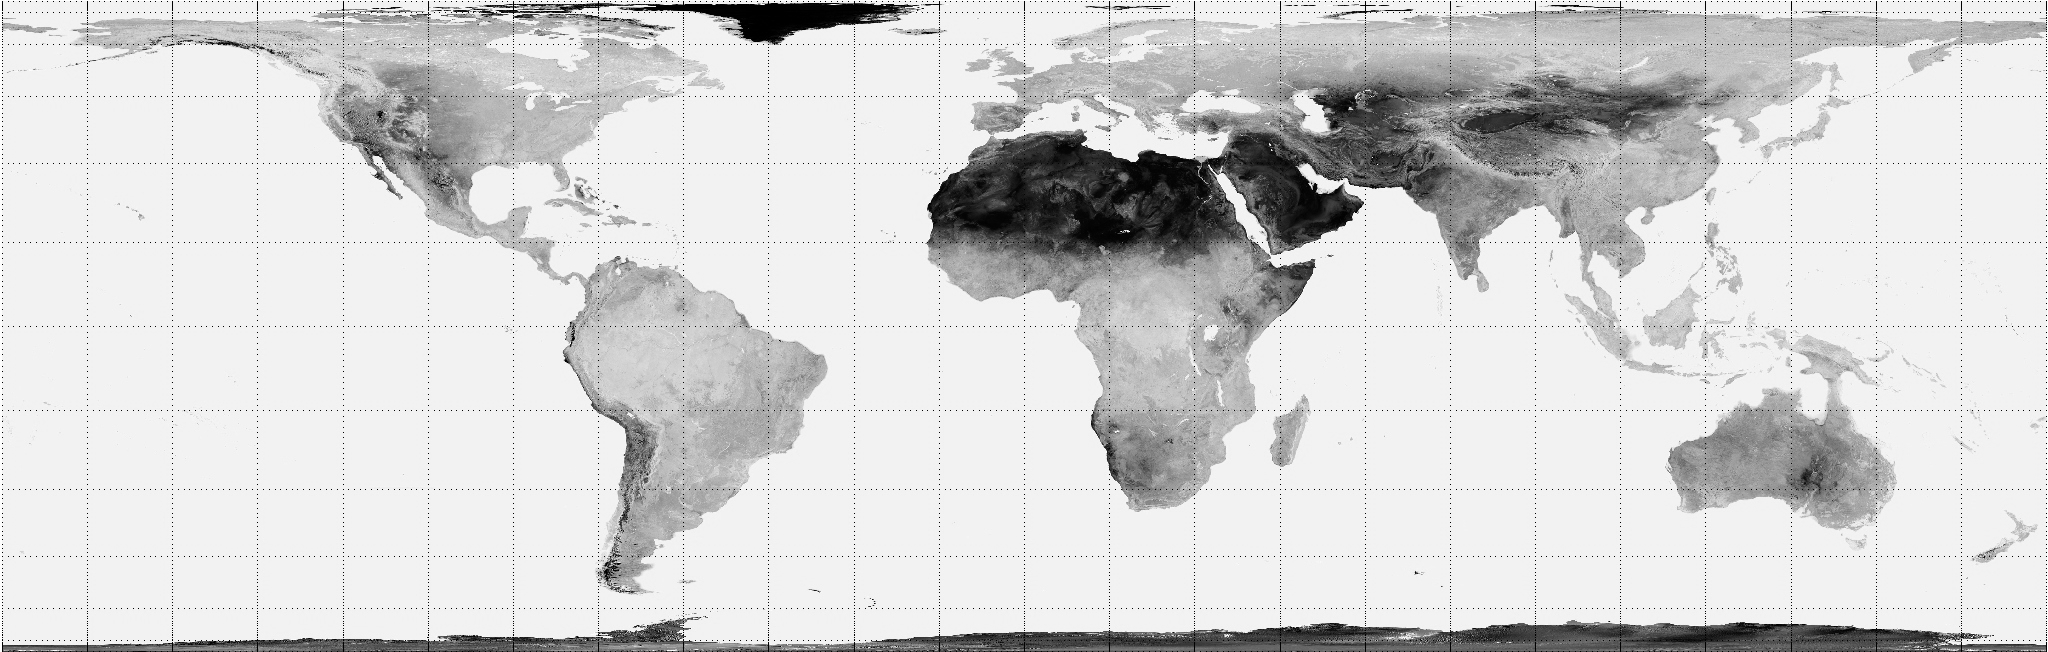
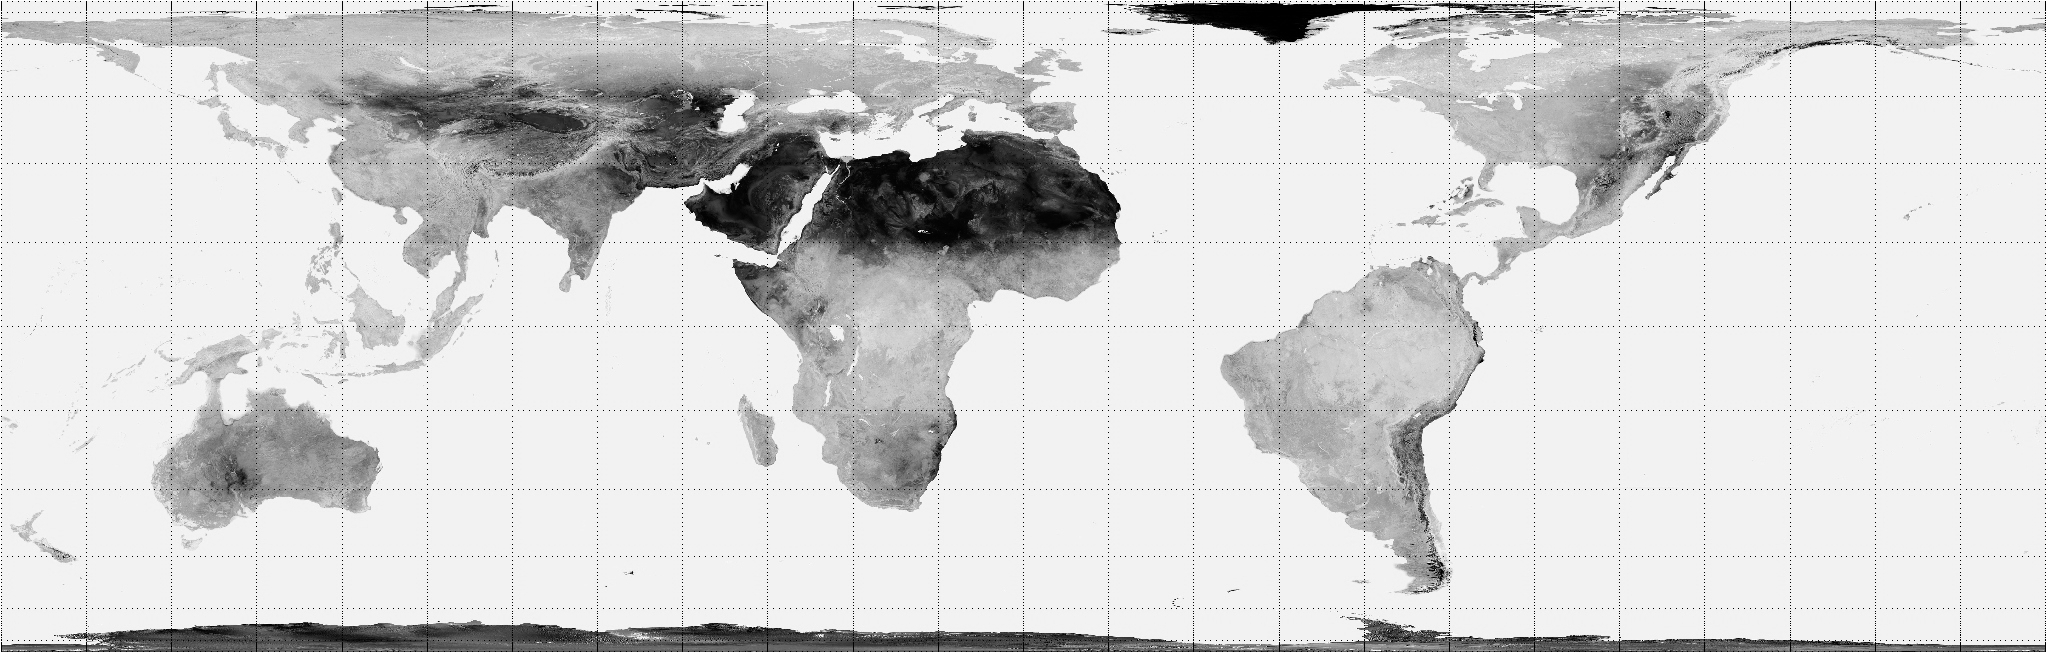
pause/start/stop fixes. flipped earth image.

diff --git a/src/concurrent/ProcessManager.java b/src/concurrent/ProcessManager.java
@@ -9,6 +9,7 @@ import java.util.concurrent.TimeUnit;
 import messaging.Message;
 import messaging.Publisher;
 import messaging.events.ResumeMessage;
+import messaging.events.StopMessage;
 import common.IEngine;
 
 public class ProcessManager extends ThreadPoolExecutor implements IEngine {
@@ -20,6 +21,7 @@ public class ProcessManager extends ThreadPoolExecutor implements IEngine {
 	private final Queue<IEngine> queued;
 	
 	private static ProcessManager instance = null;
+	private boolean started;
 	
 	public static ProcessManager getManager() {
 		if (instance == null) instance = new ProcessManager();
@@ -32,11 +34,12 @@ public class ProcessManager extends ThreadPoolExecutor implements IEngine {
 		super(POOL_SIZE, POOL_SIZE, TIMEOUT, TimeUnit.SECONDS, new LinkedBlockingQueue<Runnable>());
 		
 		queued = new LinkedList<IEngine>();
+		started = false;
 	}
 
 	public synchronized void add(IEngine r) {
 		
-		if (this.isShutdown() || this.isTerminating() || this.isTerminated()) return;
+		if (started || this.isShutdown() || this.isTerminating() || this.isTerminated()) return;
 		if (queued.contains(r)) return;
 		
 		this.queued.add(r);
@@ -44,7 +47,7 @@ public class ProcessManager extends ThreadPoolExecutor implements IEngine {
 	
 	public void stop() {
 		
-		if (this.isShutdown() || this.isTerminating() || this.isTerminated()) return;
+		if (!started || this.isShutdown() || this.isTerminating() || this.isTerminated()) return;
 		
 		// make sure nothing is paused
 		Publisher.getInstance().send(new ResumeMessage());
@@ -53,6 +56,8 @@ public class ProcessManager extends ThreadPoolExecutor implements IEngine {
 			// Reach down and interrupt the threads
 			r.stop();
 		}
+		
+		started = false;
 	}
 	
 	public void close() {
@@ -71,15 +76,19 @@ public class ProcessManager extends ThreadPoolExecutor implements IEngine {
 	}
 
 	public void start() {
-		if (this.isShutdown() || this.isTerminating() || this.isTerminated()) return;
+		
+		if (started || this.isShutdown() || this.isTerminating() || this.isTerminated()) return;
+		
 		for (IEngine r : queued) {
 			this.execute(r);
 		}
+		
+		started = true;
 	}
 	
 	public void pause() {
 		
-		if (this.isShutdown() || this.isTerminating() || this.isTerminated()) return;
+		if (!started || this.isShutdown() || this.isTerminating() || this.isTerminated()) return;
 		
 		for (IEngine r : queued) {
 			try {
@@ -92,7 +101,6 @@ public class ProcessManager extends ThreadPoolExecutor implements IEngine {
 		}
 	}
 
-	// TODO convert to internal calling messages
 	@Override
 	public void onMessage(Message msg) {
 		msg.process(this);
@@ -100,32 +108,27 @@ public class ProcessManager extends ThreadPoolExecutor implements IEngine {
 
 	@Override
 	public void generate() {
-		// nothing to do
 		return;
 	}
 
 	@Override
 	public void run() {
-		// TODO Auto-generated method stub
-		
+		return;
 	}
 
 	@Override
 	public void performAction() {
-		// TODO Auto-generated method stub
-		
+		return;
 	}
 
 	@Override
 	public void configure(int gs, int timeStep) {
-		// TODO Auto-generated method stub
-		
+		return;
 	}
 
 	@Override
 	public void processQueue() {
-		// TODO Auto-generated method stub
-		
+		return;
 	}
 
 	@Override

diff --git a/src/EarthSim/GUI.java b/src/EarthSim/GUI.java
@@ -150,17 +150,18 @@ public class GUI extends JFrame implements ActionListener {
 				this.start();
 		}
 		
-		if ("Pause".equals(cmd))
+		else if ("Pause".equals(cmd))
 			this.pause();
 		
-		if ("Resume".equals(cmd))
+		else if ("Resume".equals(cmd))
 			this.resume();
 		
-		if ("Stop".equals(cmd)) 
+		else if ("Stop".equals(cmd)) 
 			this.stop();
 	}
 	
 	public void start() {
+		publisher.send(new StopMessage());
 		publisher.send(new StartMessage());
 	}
 	

diff --git a/src/common/AbstractEngine.java b/src/common/AbstractEngine.java
@@ -64,7 +64,6 @@ public abstract class AbstractEngine implements IEngine {
 	
 	@Override
 	public void generate() {
-		// nothing to do
 		return;
 	}
 
@@ -79,9 +78,10 @@ public abstract class AbstractEngine implements IEngine {
 	}
 	
 	public void pause(Object lock) throws InterruptedException {
-		// TODO implement
+		synchronized (lock) {
+			lock.wait();
+		}
 	}
-	
 
 	@Override
 	public void start() {

diff --git a/src/EarthSim/Demo.java b/src/EarthSim/Demo.java
@@ -30,7 +30,6 @@ public class Demo {
 	// provide a max of 5 input values.
 	public void processArgs(String[] args) {
 		
-		System.out.println(args.length);
 		if (args.length > 5)
 			usage();
 
